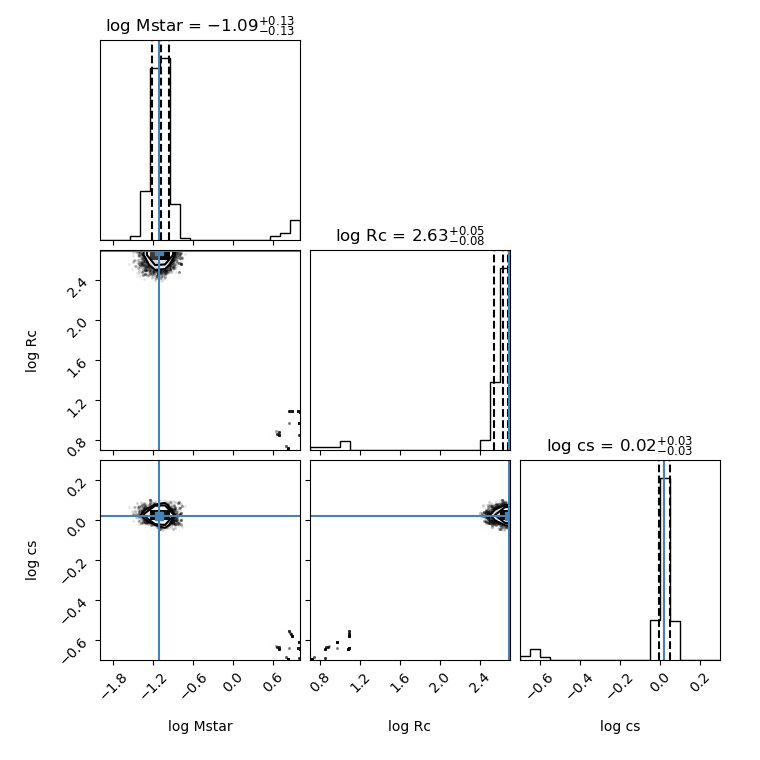
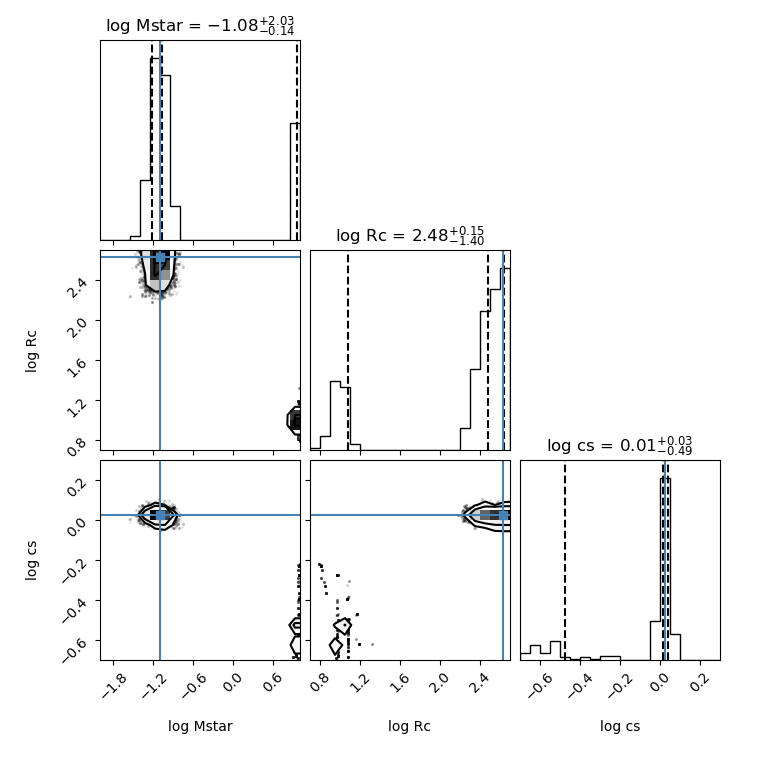
vr in channelfit modified

diff --git a/channelfit/channelfit.py b/channelfit/channelfit.py
@@ -187,7 +187,8 @@ class ChannelFit():
         def modelvlos(Mstar: float, Rc: float):
             vkep = vunit * np.sqrt(Mstar / self.rdisk)
             vjrot = vunit * np.sqrt(Mstar * Rc) / self.rdisk
-            vr = -vunit * np.sqrt(Mstar / self.rdisk) * np.sqrt((2 - Rc / self.rdisk).clip(0, None))
+            vr = -vunit * np.sqrt(Mstar / self.rdisk) * np.sqrt(2 - Rc / self.rdisk)
+            vr[self.rdisk < Rc] = 0
             vrot = np.where(self.rdisk < Rc, vkep, vjrot)
             vlos = (vrot * self.dmaj + vr * self.dmin) / self.rdisk \
                    * np.sin(np.radians(incl))
